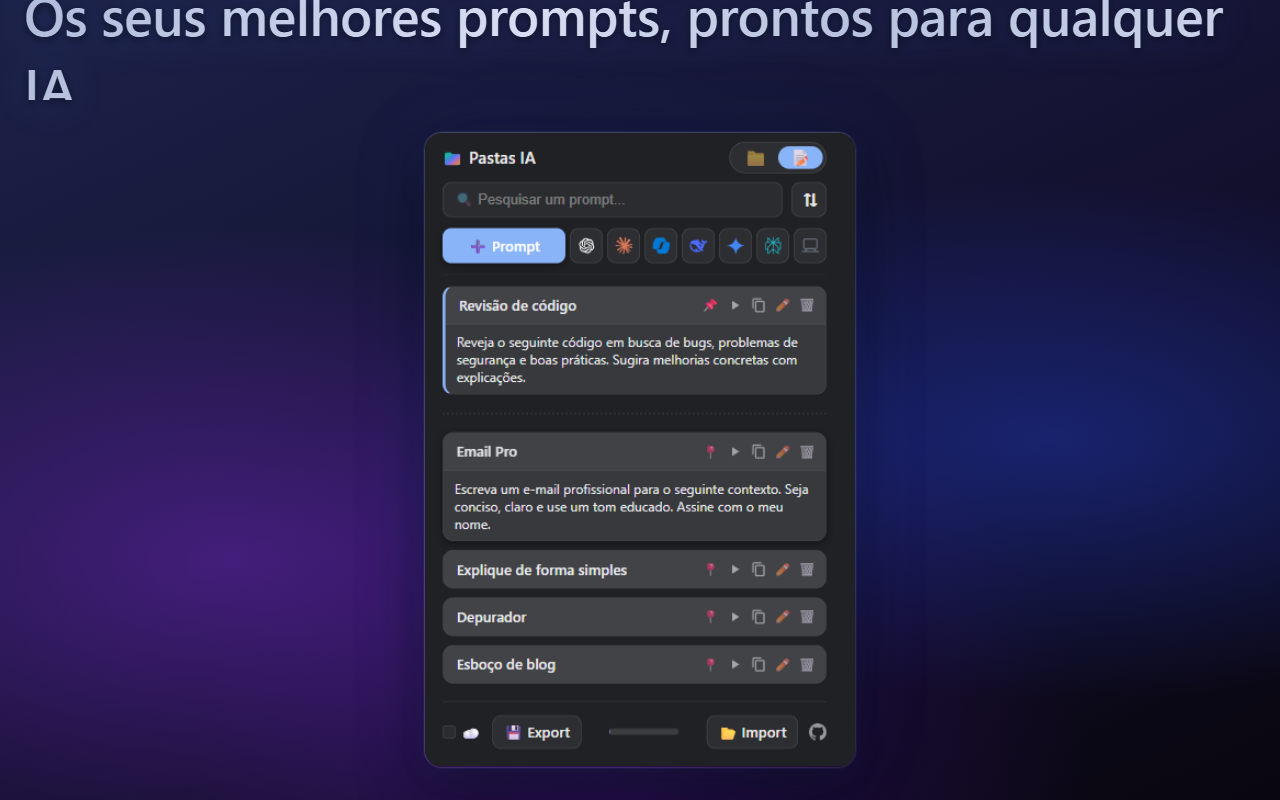
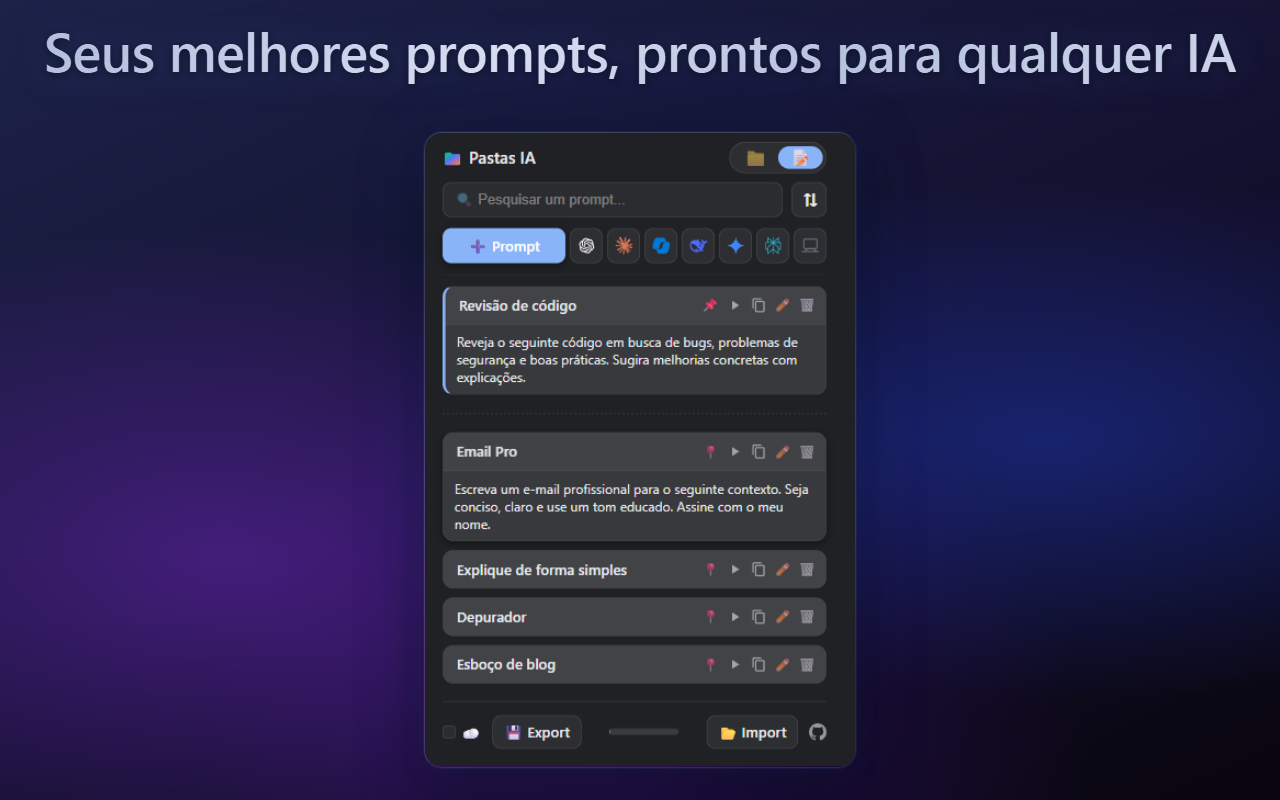
Portuguese (pt_PT) promo image text fix

Changed region(s): [[0.0, 0.0, 0.9688, 0.125]]

diff --git a/screenshots/sample-data-af.js b/screenshots/sample-data-af.js
@@ -248,7 +248,7 @@ const LOCALES = {
     explainSimply: 'Explique de forma simples', blogOutline: 'Esboço de blog',
     debugHelper: 'Depurador', debugHelperText: 'Tenho o seguinte erro ou comportamento inesperado. Ajuda-me a diagnosticar a causa raiz passo a passo e depois sugere uma solução.',
     folderScreenTitle: 'Todos os seus chats IA, num só lugar organizado',
-    promptScreenTitle: 'Os seus melhores prompts, prontos para qualquer IA',
+    promptScreenTitle: 'Seus melhores prompts, prontos para qualquer IA',
     mobileScreenTitle: 'Aceda aos seus chats IA no telemóvel',
     contextMenuScreenTitle: 'Guarde conversas IA com um clique direito',
   }),